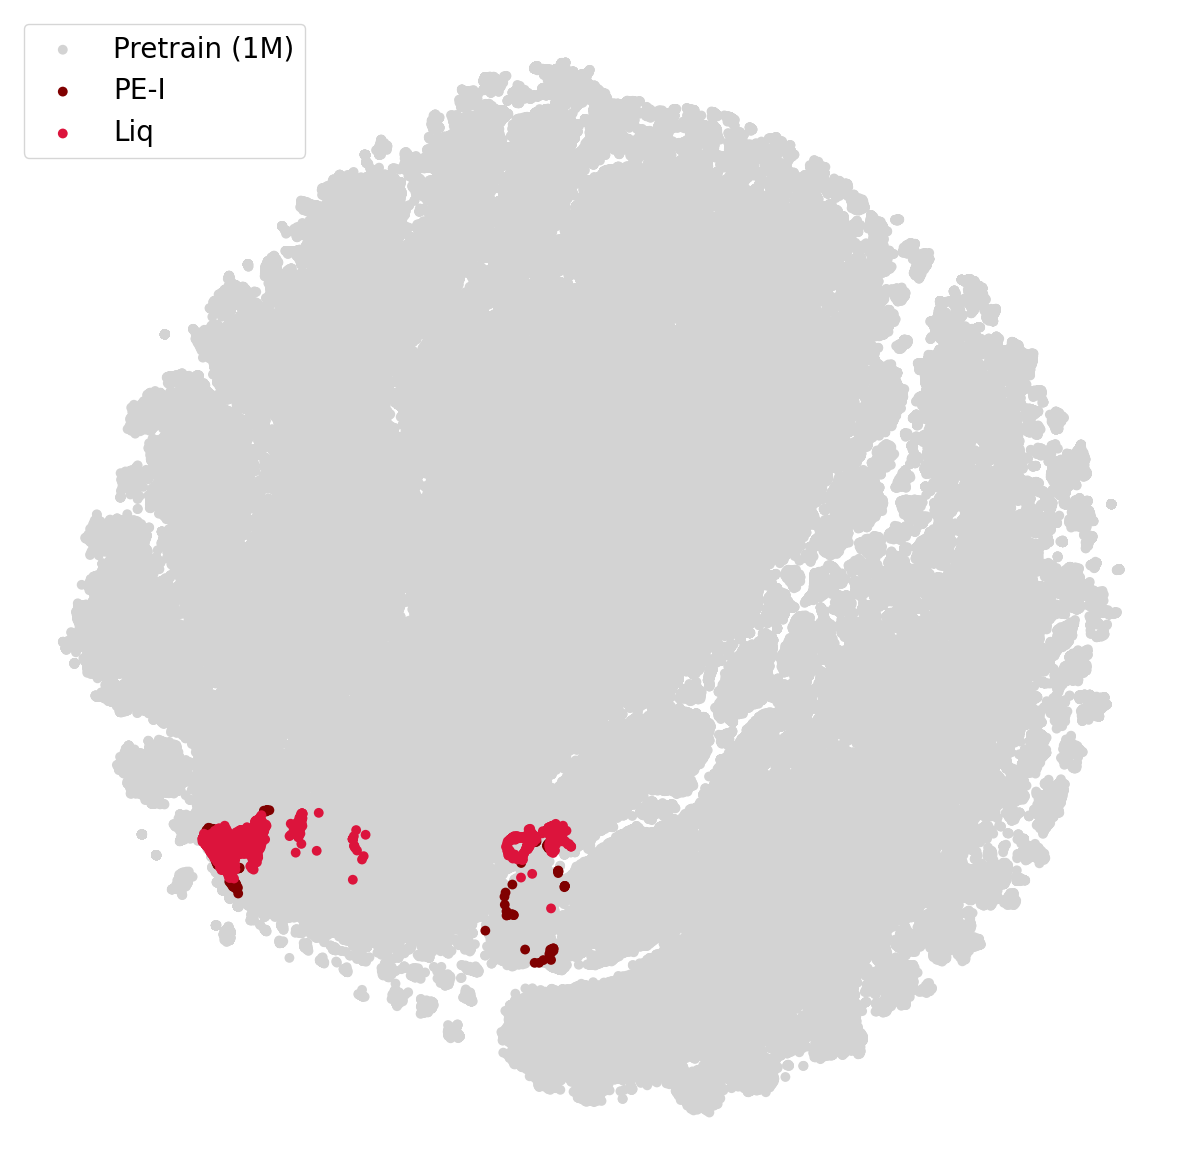
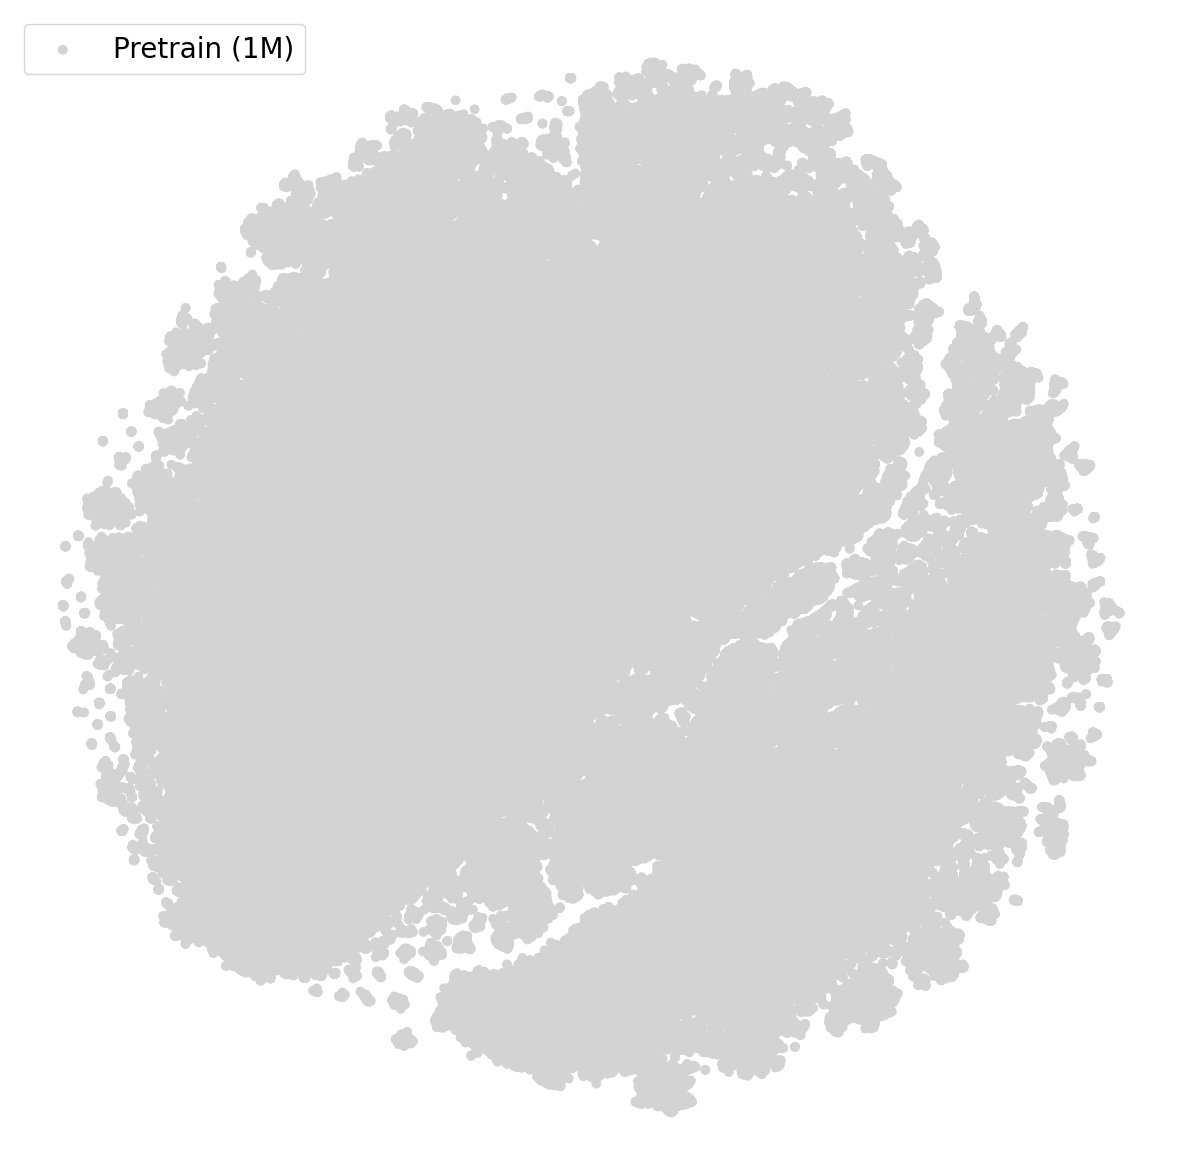
New Data files added, minor modifications in the code

diff --git a/tSNE.py b/tSNE.py
@@ -53,7 +53,7 @@ def emb_convert(file_path, tokenizer, config):
 
 def main(tsne_config):
 
-    tokenizer = PolymerSmilesTokenizer.from_pretrained("roberta-base", max_len=tsne_config['blocksize'])
+    tokenizer = PolymerSmilesTokenizer.from_pretrained("/project/rcc/hyadav/roberta-base", max_len=tsne_config['blocksize'])
     config = RobertaConfig(
             vocab_size=50265,
             max_position_embeddings=514,
@@ -65,16 +65,17 @@ def main(tsne_config):
         )
 
     pretrain_data = emb_convert(tsne_config['pretrain_path'], tokenizer, config)
-    PE_I_data = emb_convert(tsne_config['PE_I_path'], tokenizer, config)
-    PE_II_data = emb_convert(tsne_config['PE_II_path'], tokenizer, config)
-    Egc_data = emb_convert(tsne_config['Egc_path'], tokenizer, config)
-    Egb_data = emb_convert(tsne_config['Egb_path'], tokenizer, config)
-    Eea_data = emb_convert(tsne_config['Eea_path'], tokenizer, config)
-    Ei_data = emb_convert(tsne_config['Ei_path'], tokenizer, config)
-    Xc_data = emb_convert(tsne_config['Xc_path'], tokenizer, config)
-    EPS_data = emb_convert(tsne_config['EPS_path'], tokenizer, config)
-    Nc_data = emb_convert(tsne_config['Nc_path'], tokenizer, config)
-    OPV_data = emb_convert(tsne_config['OPV_path'], tokenizer, config)
+    # PE_I_data = emb_convert(tsne_config['PE_I_path'], tokenizer, config)
+    # PE_II_data = emb_convert(tsne_config['PE_II_path'], tokenizer, config)
+    # Egc_data = emb_convert(tsne_config['Egc_path'], tokenizer, config)
+    # Egb_data = emb_convert(tsne_config['Egb_path'], tokenizer, config)
+    # Eea_data = emb_convert(tsne_config['Eea_path'], tokenizer, config)
+    # Ei_data = emb_convert(tsne_config['Ei_path'], tokenizer, config)
+    # Xc_data = emb_convert(tsne_config['Xc_path'], tokenizer, config)
+    # EPS_data = emb_convert(tsne_config['EPS_path'], tokenizer, config)
+    # Nc_data = emb_convert(tsne_config['Nc_path'], tokenizer, config)
+    # OPV_data = emb_convert(tsne_config['OPV_path'], tokenizer, config)
+    # Liq_data = emb_convert(tsne_config['Liq_path'], tokenizer, config)
 
     print("start fitting t-SNE")
     tSNE = TSNE(
@@ -85,38 +86,41 @@ def main(tsne_config):
     )
     pretrain_tSNE = tSNE.fit(pretrain_data)
     print("finish fitting")
-    PE_I_tSNE = pretrain_tSNE.transform(PE_I_data)
-    PE_II_tSNE = pretrain_tSNE.transform(PE_II_data)
-    Egc_tSNE = pretrain_tSNE.transform(Egc_data)
-    Egb_tSNE = pretrain_tSNE.transform(Egb_data)
-    Eea_tSNE = pretrain_tSNE.transform(Eea_data)
-    Ei_tSNE = pretrain_tSNE.transform(Ei_data)
-    Xc_tSNE = pretrain_tSNE.transform(Xc_data)
-    EPS_tSNE = pretrain_tSNE.transform(EPS_data)
-    Nc_tSNE = pretrain_tSNE.transform(Nc_data)
-    OPV_tSNE = pretrain_tSNE.transform(OPV_data)
+    # PE_I_tSNE = pretrain_tSNE.transform(PE_I_data)
+    # PE_II_tSNE = pretrain_tSNE.transform(PE_II_data)
+    # Egc_tSNE = pretrain_tSNE.transform(Egc_data)
+    # Egb_tSNE = pretrain_tSNE.transform(Egb_data)
+    # Eea_tSNE = pretrain_tSNE.transform(Eea_data)
+    # Ei_tSNE = pretrain_tSNE.transform(Ei_data)
+    # Xc_tSNE = pretrain_tSNE.transform(Xc_data)
+    # EPS_tSNE = pretrain_tSNE.transform(EPS_data)
+    # Nc_tSNE = pretrain_tSNE.transform(Nc_data)
+    # OPV_tSNE = pretrain_tSNE.transform(OPV_data)
+    # Liq_tSNE = pretrain_tSNE.transform(Liq_data)
     print("finish t-SNE")
 
     fig, ax = plt.subplots(figsize=(15, 15))
     ax.scatter(pretrain_tSNE[:, 0], pretrain_tSNE[:, 1], s=50, edgecolors='None', linewidths=0.4, c='lightgrey',
                label=tsne_config["pretrain_label"])
-    ax.scatter(PE_I_tSNE[:, 0], PE_I_tSNE[:, 1], s=50, edgecolors='None', linewidths=0.4, c='maroon', label=tsne_config["PE-I_label"])
-    ax.scatter(PE_II_tSNE[:, 0], PE_II_tSNE[:, 1], s=50, edgecolors='None', linewidths=0.4, c='coral', label=tsne_config["PE-II_label"])
-    ax.scatter(Egc_tSNE[:, 0], Egc_tSNE[:, 1], s=50, edgecolors='None', linewidths=0.4, c='darkorange', label=tsne_config["Egc_label"])
-    ax.scatter(Egb_tSNE[:, 0], Egb_tSNE[:, 1], s=50, edgecolors='None', linewidths=0.4, c='gold', label=tsne_config["Egb_label"])
-    ax.scatter(Eea_tSNE[:, 0], Eea_tSNE[:, 1], s=50, edgecolors='None', linewidths=0.4, c='lawngreen', label=tsne_config["Eea_label"])
-    ax.scatter(Ei_tSNE[:, 0], Ei_tSNE[:, 1], s=50, edgecolors='None', linewidths=0.4, c='green', label=tsne_config["Ei_label"])
-    ax.scatter(Xc_tSNE[:, 0], Xc_tSNE[:, 1], s=50, edgecolors='None', linewidths=0.4, c='cyan', label=tsne_config["Xc_label"])
-    ax.scatter(EPS_tSNE[:, 0], EPS_tSNE[:, 1], s=50, edgecolors='None', linewidths=0.4, c='blue', label=tsne_config["EPS_label"])
-    ax.scatter(Nc_tSNE[:, 0], Nc_tSNE[:, 1], s=50, edgecolors='None', linewidths=0.4, c='violet', label=tsne_config["Nc_label"])
-    ax.scatter(OPV_tSNE[:, 0], OPV_tSNE[:, 1], s=50, edgecolors='None', linewidths=0.4, c='deeppink', label=tsne_config["OPV_label"])
-
+    # ax.scatter(PE_I_tSNE[:, 0], PE_I_tSNE[:, 1], s=50, edgecolors='None', linewidths=0.4, c='maroon', label=tsne_config["PE-I_label"])
+    # ax.scatter(PE_II_tSNE[:, 0], PE_II_tSNE[:, 1], s=50, edgecolors='None', linewidths=0.4, c='coral', label=tsne_config["PE-II_label"])
+    # ax.scatter(Egc_tSNE[:, 0], Egc_tSNE[:, 1], s=50, edgecolors='None', linewidths=0.4, c='darkorange', label=tsne_config["Egc_label"])
+    # ax.scatter(Egb_tSNE[:, 0], Egb_tSNE[:, 1], s=50, edgecolors='None', linewidths=0.4, c='gold', label=tsne_config["Egb_label"])
+    # ax.scatter(Eea_tSNE[:, 0], Eea_tSNE[:, 1], s=50, edgecolors='None', linewidths=0.4, c='lawngreen', label=tsne_config["Eea_label"])
+    # ax.scatter(Ei_tSNE[:, 0], Ei_tSNE[:, 1], s=50, edgecolors='None', linewidths=0.4, c='green', label=tsne_config["Ei_label"])
+    # ax.scatter(Xc_tSNE[:, 0], Xc_tSNE[:, 1], s=50, edgecolors='None', linewidths=0.4, c='cyan', label=tsne_config["Xc_label"])
+    # ax.scatter(EPS_tSNE[:, 0], EPS_tSNE[:, 1], s=50, edgecolors='None', linewidths=0.4, c='blue', label=tsne_config["EPS_label"])
+    # ax.scatter(Nc_tSNE[:, 0], Nc_tSNE[:, 1], s=50, edgecolors='None', linewidths=0.4, c='violet', label=tsne_config["Nc_label"])
+    # ax.scatter(OPV_tSNE[:, 0], OPV_tSNE[:, 1], s=50, edgecolors='None', linewidths=0.4, c='deeppink', label=tsne_config["OPV_label"])
+    # ax.scatter(Liq_tSNE[:, 0], Liq_tSNE[:, 1], s=50, edgecolors='None', linewidths=0.4, c='crimson', label=tsne_config["Liq_label"])
+ 
     ax.set_xticks([])
     ax.set_yticks([])
 
     ax.axis('off')
     ax.legend(fontsize=20, loc='upper left')
     plt.savefig(tsne_config['save_path'], bbox_inches='tight')
+    print("File Saved")
 
 
 if __name__ == "__main__":

diff --git a/Downstream.py b/Downstream.py
@@ -35,6 +35,7 @@ writer = SummaryWriter()
 
 from copy import deepcopy
 
+import pdb
 
 np.random.seed(seed=1)
 
@@ -129,6 +130,7 @@ class DownstreamRegression(nn.Module):
 
 def train(model, optimizer, scheduler, loss_fn, train_dataloader, device):
 
+    print("\n Number of parameteres are: ", sum(param.numel() for param in model.parameters() if param.requires_grad))
     model.train()
 
     for step, batch in enumerate(train_dataloader):
@@ -150,6 +152,7 @@ def test(model, loss_fn, train_dataloader, test_dataloader, device, scaler, opti
     train_loss = 0
     test_loss = 0
     # count = 0
+    print("\n Number of parameteres are: ", sum(param.numel() for param in model.parameters() if param.requires_grad))
     model.eval()
     with torch.no_grad():
         train_pred, train_true, test_pred, test_true = torch.tensor([]), torch.tensor([]), torch.tensor(
@@ -188,6 +191,39 @@ def test(model, loss_fn, train_dataloader, test_dataloader, device, scaler, opti
         r2_test = r2score(test_pred.flatten().to("cpu"), test_true.flatten().to("cpu")).item()
         print("test RMSE = ", np.sqrt(test_loss))
         print("test r^2 = ", r2_test)
+
+        # pdb.set_trace()
+
+        #Plot results
+        #create basic scatterplot
+        x = test_true.detach().cpu().numpy()
+        y = test_pred.detach().cpu().numpy()
+        x = x.reshape((x.shape[0], ))
+        y = y.reshape((y.shape[0], ))
+
+        # pdb.set_trace()
+
+        plt.clf()
+
+        fig, ax = plt.subplots()
+
+        ax.plot(x, y, 'o', color = 'green', markersize=2)
+
+        #obtain m (slope) and b(intercept) of linear regression line
+        m, b = np.polyfit(x, y, 1)
+
+        #add linear regression line to scatterplot 
+        ax.plot(x, m*x+b, color = 'red')
+
+ 
+        textstr = '\n'.join((r'$RMSE$=%.2f' % (np.sqrt(test_loss),),r'$R^2$=%.2f' % (r2_test, ),))
+
+        ax.text(0.05, 0.95, textstr, transform=ax.transAxes, fontsize=14,verticalalignment='top')
+
+        fig.savefig("./plots/test_plot_combined_rmse_%.2f_r2_%.2f_2.png" %((np.sqrt(test_loss)),(r2_test)))
+
+        # exit()
+
 
     writer.add_scalar("Loss/train", train_loss, epoch)
     writer.add_scalar("r^2/train", r2_train, epoch)
@@ -278,6 +314,8 @@ def main(finetune_config):
             model = DownstreamRegression(drop_rate=finetune_config['drop_rate']).to(device)
             model = model.double()
             loss_fn = nn.MSELoss()
+
+            print("\n ********** Number of parameteres are: ", sum(param.numel() for param in model.parameters() if param.requires_grad))
 
             if finetune_config['LLRD_flag']:
                 optimizer = roberta_base_AdamW_LLRD(model, finetune_config['lr_rate'], finetune_config['weight_decay'])
@@ -435,8 +473,8 @@ if __name__ == "__main__":
 
     if finetune_config['model_indicator'] == 'pretrain':
         print("Use the pretrained model")
-        PretrainedModel = RobertaModel.from_pretrained(finetune_config['model_path'])
-        tokenizer = PolymerSmilesTokenizer.from_pretrained("/project/rcc/hyadav/roberta-base", max_len=finetune_config['blocksize'])
+        PretrainedModel = RobertaModel.from_pretrained("/project/rcc/hyadav/ChemBERTa-77M-MTR")
+        tokenizer = PolymerSmilesTokenizer.from_pretrained("/project/rcc/hyadav/ChemBERTa-77M-MTR", max_len=finetune_config['blocksize'])
         PretrainedModel.config.hidden_dropout_prob = finetune_config['hidden_dropout_prob']
         PretrainedModel.config.attention_probs_dropout_prob = finetune_config['attention_probs_dropout_prob']
     else:
@@ -451,7 +489,7 @@ if __name__ == "__main__":
             attention_probs_dropout_prob=0.1
         )
         PretrainedModel = RobertaModel(config=config)
-        tokenizer = RobertaTokenizer.from_pretrained("/project/rcc/hyadav/roberta-base", max_len=finetune_config['blocksize'])
+        tokenizer = RobertaTokenizer.from_pretrained("/project/rcc/hyadav/ChemBERTa-77M-MTR", max_len=finetune_config['blocksize'])
     max_token_len = finetune_config['blocksize']
 
     """Run the main function"""

diff --git a/prep_data.py b/prep_data.py
@@ -1,0 +1,67 @@
+import pandas as pd
+import numpy as np 
+from sklearn.model_selection import train_test_split
+import pdb
+
+def exp_1():
+    df = pd.read_csv("./data/all_multi_comp_comb.csv")
+    df_2 = df[['conductivity_log']].copy()
+    df_2['input'] = df[['solv_comb_sm', 'salt_sm']].apply("$".join, axis=1)
+    cols = df_2.columns.tolist()
+    cols = cols[-1:] + cols[:-1]
+    df_2 = df_2[cols]
+    print(df_2.shape[0])
+    df_3 = pd.read_csv("./data/all_multi_comp_add.csv")
+    
+    
+    df_2.insert(1, "temperature", df_3["temperature"].tolist(), True)
+    df_2['temperature'] = df_2['temperature'].astype(str)
+    df_2['input'] = df_2[['input', 'temperature']].apply("$".join, axis=1)
+    df_2 = df_2.drop("temperature", axis = 1)
+
+    print(df_2)
+
+    train, test = train_test_split(df_2, test_size=0.2)
+
+    print(train.shape[0], test.shape[0])
+
+    train.to_csv("./data/our_train.csv", index = False)
+    test.to_csv("./data/our_test.csv", index = False)
+
+def exp_2():
+    df_num = pd.read_csv("./data/all_multi_comp_add.csv")
+    df_smiles = pd.read_csv("./data/all_multi_comp.csv")
+    df_smiles.fillna('NAN_SMILES', inplace=True)
+    df_input = pd.concat([df_num, df_smiles], axis = 1)
+    df_input = df_input.applymap(str)
+    df_input_final = pd.DataFrame()
+    df_input_final['input'] = df_input[['solv_ratio_1', 'solv_ratio_2', 'solv_ratio_3', 'solv_ratio_4', 'mol_wt_solv_1', 'mol_wt_solv_2', 'mol_wt_solv_3', 'mol_wt_solv_4', 'conc_salt', 'temperature', 'solv_1_sm', 'solv_2_sm', 'solv_3_sm','solv_4_sm', 'salt_sm']].apply("$".join, axis=1)
+    df_input_final['conductivity_log'] = df_input['conductivity_log']
+
+    train, test = train_test_split(df_input_final, test_size=0.2)
+
+    print(train.shape[0], test.shape[0])
+
+    df_input_final.to_csv("./data/our_combined.csv", index = False)
+    train.to_csv("./data/our_train_combined.csv", index = False)
+    test.to_csv("./data/our_test_combined.csv", index = False)
+
+def exp_3(num_file, smiles_file, output_file):
+    df_num = pd.read_csv(num_file)
+    df_smiles = pd.read_csv(smiles_file)
+    df_smiles.fillna('NAN_SMILES', inplace=True)
+    df_input = pd.concat([df_num, df_smiles], axis = 1)
+    df_input = df_input.applymap(str)
+    df_input_final = pd.DataFrame()
+    df_input_final['input'] = df_input[['solv_ratio_1', 'solv_ratio_2', 'solv_ratio_3', 'solv_ratio_4', 'mol_wt_solv_1', 'mol_wt_solv_2', 'mol_wt_solv_3', 'mol_wt_solv_4', 'conc_salt', 'temperature', 'solv_comb_sm', 'salt_sm']].apply("$".join, axis=1)
+    df_input_final['conductivity_log'] = df_input['conductivity_log']
+
+    df_input_final.to_csv(output_file, index = False)
+
+
+
+def main():
+    exp_3("./data/val_multi_comp_add.csv", "./data/val_multi_comp_comb.csv", "./data/val_liq.csv")
+
+if __name__ == "__main__":
+    main()

diff --git a/Attention_vis.py b/Attention_vis.py
@@ -84,7 +84,7 @@ def main(attention_config):
     else:
         model = DownstreamRegression(drop_rate=0).to(device)
         checkpoint = torch.load(attention_config['model_path'])
-        model.load_state_dict(checkpoint['model'])
+        # model.load_state_dict(checkpoint['model'])
         model = model.double()
 
         model.eval()
@@ -134,7 +134,7 @@ if __name__ == "__main__":
     device = torch.device("cuda" if torch.cuda.is_available() else "cpu")
 
     PretrainedModel = RobertaModel.from_pretrained(attention_config['pretrain_path']).to(device)
-    tokenizer = PolymerSmilesTokenizer.from_pretrained("roberta-base", max_len=attention_config['blocksize'])
+    tokenizer = PolymerSmilesTokenizer.from_pretrained("/project/rcc/hyadav/roberta-base", max_len=attention_config['blocksize'])
 
     main(attention_config)
 
